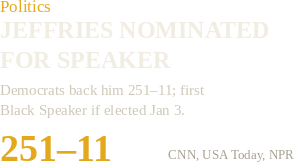
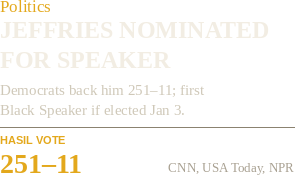
v4.1: stat blocks with micro-labels, figures 38pt -> 28pt
Grey: bare figures confused readers and 38pt dominated the cards.
Each figure now sits in a stat block under a thin hairline rule with
an 11pt sans-bold micro-label above it (METACRITIC / PINJAMAN UKRAINA
/ HASIL VOTE, card colour) so the number explains itself at a glance;
source stays right-aligned on the figure baseline. Labels repeat facts
already in the subs -- no new facts. Hero re-solved 292 -> 267px to
absorb the taller cards; everything else unchanged.

diff --git a/main.py b/main.py
@@ -13,7 +13,11 @@ warm ink background #171310 with cream type (15.8:1), a red signal chip
 dateline (one red, one function -- no BREAKING bar, no LIVE element, no
 alarm type), hero photo 976x292, deck opened by the "SHENZHEN --"
 dateline, data figures inside the cards (Europe EUR45B, Culture 99,
-Politics 251-11, each on one row with its source), a drop cap on the
+Politics 251-11, each a 28pt stat with a micro-label above it --
+METACRITIC / PINJAMAN UKRAINA / HASIL VOTE -- under a thin hairline
+rule, source right-aligned on the figure baseline; v4.1 shrank the
+figures from 38pt and added the labels after Grey asked what the bare
+numbers meant), a drop cap on the
 numberless Conflict card, a deterministic paper-grain tile over the ink,
 and a discreet footer sources line. Facts and words are unchanged from
 v3. The program is deterministic: two runs write identical bytes.
@@ -39,9 +43,9 @@ RED = (192, 57, 43)
 
 # (file, paste_x, paste_y): photos are opaque RGB, text is RGBA.
 PHOTOS = [
-    ("hero_976x292.png", 24, 256),
-    ("gta_170x150.png", 24, 615),
-    ("jeffries_170x150.png", 524, 794),
+    ("hero_976x267.png", 24, 256),
+    ("gta_170x150.png", 24, 590),
+    ("jeffries_170x150.png", 524, 781),
 ]
 
 # Text PNGs with the paste offset recorded at build time (alpha bbox).
@@ -51,12 +55,12 @@ TEXTS = [
     ("t_hero_kicker.png", 24, 131),
     ("t_chip.png", 804, 126),
     ("t_hero_head.png", 24, 167),
-    ("t_caption.png", 25, 554),
-    ("t_deck.png", 24, 580),
-    ("t_card0.png", 206, 617),
-    ("t_card1.png", 524, 617),
-    ("t_card2.png", 24, 797),
-    ("t_card3.png", 706, 796),
+    ("t_caption.png", 25, 529),
+    ("t_deck.png", 24, 555),
+    ("t_card0.png", 206, 592),
+    ("t_card1.png", 524, 592),
+    ("t_card2.png", 24, 784),
+    ("t_card3.png", 706, 783),
     ("t_foot_l.png", 24, 981),
     ("t_foot_c.png", 401, 982),
     ("t_foot_r.png", 833, 981),
@@ -65,23 +69,23 @@ TEXTS = [
 # Hairlines: (x0, x1, y, height, colour). Height 1, 2 or 3 rows.
 HLINES = [
     (24, 1000, 75, 1, HAIRLINE),
-    (24, 1000, 114, 3, RED),
-    (24, 1000, 603, 1, HAIRLINE),
-    (24, 1000, 785, 1, HAIRLINE),
+    (24, 1000, 113, 3, RED),
+    (24, 1000, 578, 1, HAIRLINE),
+    (24, 1000, 772, 1, HAIRLINE),
     (24, 1000, 970, 2, HAIRLINE),
 ]
 
 # Vertical hairline dividers: (x, y0, y1, colour).
 VLINES = [
-    (512, 611, 776, HAIRLINE),
-    (512, 790, 956, HAIRLINE),
+    (512, 586, 769, HAIRLINE),
+    (512, 777, 956, HAIRLINE),
 ]
 
 # Photo outlines: (x0, y0, x1, y1), 1px cream at alpha 56.
 OUTLINES = [
-    (24, 256, 999, 547),
-    (24, 615, 193, 764),
-    (524, 794, 693, 943),
+    (24, 256, 999, 522),
+    (24, 590, 193, 739),
+    (524, 781, 693, 930),
 ]
 
 
